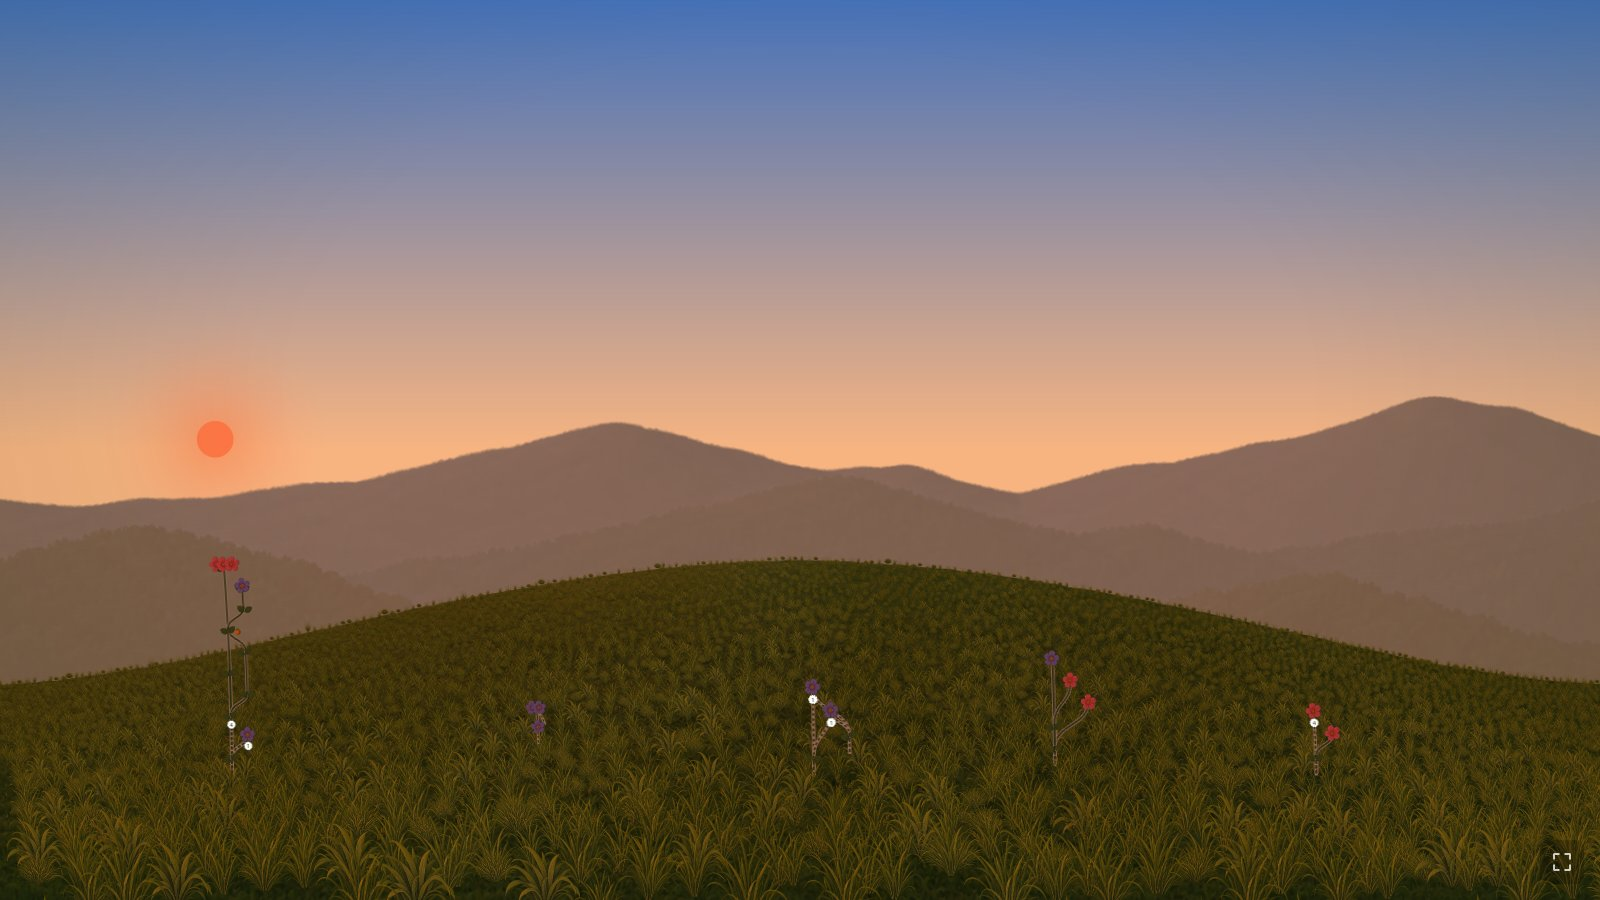
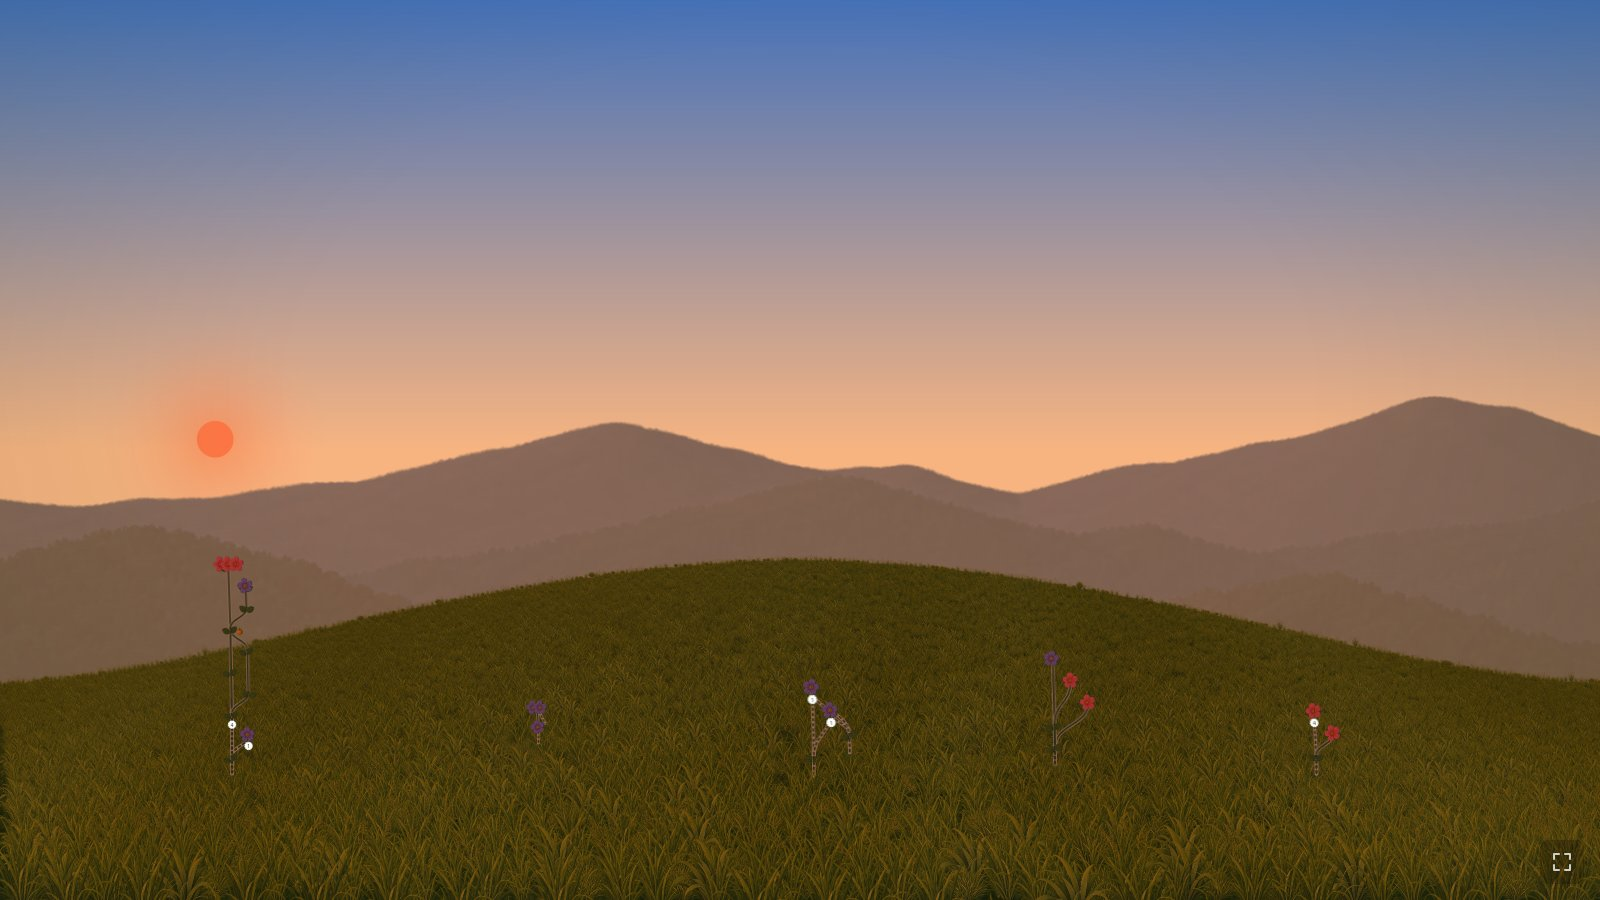
docs: recapture the README scenes on a hardware GPU; add a gusty gale
Headless Chromium has only SwiftShader, which the garden treats as
software WebGL and gives the Software tier's sparser grass. The screenshot
script now runs Chromium headed and refuses to capture without hardware
WebGL. A new scene shows a 50 mph west wind gusting to 110: the grass
leaning and swept by waves, the plants bent downwind.

Claude-Session: https://claude.ai/code/session_01Q86SXud7jWw66KW2qCgXUB

Changed region(s): [[0.0, 0.6222, 1.0, 1.0]]

diff --git a/scripts/readme-screenshots.ts b/scripts/readme-screenshots.ts
@@ -1,9 +1,10 @@
 /**
  * The README's garden screenshots: the hillside under each Sky and Weather
- * preview, drawn by the GPU tier (software WebGL headless), without the
- * top bar and notes.
+ * preview, drawn by the GPU tier on real graphics hardware, without the
+ * top bar and notes. Chromium runs headed: headless has only SwiftShader,
+ * which the garden treats as software and gives the Software tier's grass.
  *
- * Start the demo first (`node src/cli.ts demo`), then:
+ * Start the demo first (`node src/cli.ts demo`), then, with a display:
  *   npm run readme:screenshots [-- <name>]
  */
 import { chromium } from "@playwright/test";
@@ -11,31 +12,46 @@ import { chromium } from "@playwright/test";
 const URL = "http://127.0.0.1:4784/";
 const OUT = "docs/images";
 
-/** File (under docs/images), Sky preview, Weather preview, and local minutes. */
-const SHOTS: readonly [string, string, string, number?][] = [
-  ["garden-view", "noon", "partly-cloudy"],
-  ["scenes/sunrise", "sunrise", "clear"],
-  // Mid-afternoon on the Sunset preview's day: a high, colourful bow.
-  ["scenes/rainbow", "sunset", "showers", 18 * 60 + 30],
-  ["scenes/sunset", "sunset", "partly-cloudy"],
-  ["scenes/civil-dusk", "civil-dusk", "clear"],
-  ["scenes/full-moon", "full-moon", "clear"],
-  ["scenes/daytime-moon", "daytime-moon", "clear"],
-  ["scenes/thunderstorm", "noon", "thunderstorm"],
-  ["scenes/snow", "noon", "snow"],
-  ["scenes/fog", "sunrise", "fog"],
-  ["scenes/solar-eclipse-total", "solar-eclipse-total", "clear"],
-  ["scenes/lunar-eclipse-total", "lunar-eclipse-total", "clear"],
-  ["scenes/polar-day", "polar-day", "clear"],
-];
+interface Wind {
+  from: string;
+  speedMph: number;
+  gustMph: number;
+}
+
+/**
+ * File (under docs/images), Sky preview, Weather preview, local minutes,
+ * and a Wind preview (else the weather's own wind).
+ */
+const SHOTS: readonly [string, string, string, (number | undefined)?, Wind?][] =
+  [
+    ["garden-view", "noon", "partly-cloudy"],
+    ["scenes/sunrise", "sunrise", "clear"],
+    // Mid-afternoon on the Sunset preview's day: a high, colourful bow.
+    ["scenes/rainbow", "sunset", "showers", 18 * 60 + 30],
+    ["scenes/sunset", "sunset", "partly-cloudy"],
+    ["scenes/civil-dusk", "civil-dusk", "clear"],
+    ["scenes/full-moon", "full-moon", "clear"],
+    ["scenes/daytime-moon", "daytime-moon", "clear"],
+    ["scenes/thunderstorm", "noon", "thunderstorm"],
+    ["scenes/snow", "noon", "snow"],
+    ["scenes/fog", "sunrise", "fog"],
+    ["scenes/solar-eclipse-total", "solar-eclipse-total", "clear"],
+    ["scenes/lunar-eclipse-total", "lunar-eclipse-total", "clear"],
+    ["scenes/polar-day", "polar-day", "clear"],
+    // A gale from the west, gusting: the grass leans right, swept by waves.
+    [
+      "scenes/high-wind",
+      "noon",
+      "partly-cloudy",
+      undefined,
+      { from: "W", speedMph: 50, gustMph: 60 },
+    ],
+  ];
 
 const CHROME = ".topbar, [role=note], .art-notice";
 
 const only = process.argv[2];
-const browser = await chromium.launch({
-  // Headless has no GPU: the GPU tier runs on SwiftShader, chosen by hand.
-  args: ["--use-angle=swiftshader", "--enable-unsafe-swiftshader"],
-});
+const browser = await chromium.launch({ headless: false });
 try {
   const page = await browser.newPage({
     viewport: { width: 1600, height: 900 },
@@ -44,7 +60,11 @@ try {
   await page.getByLabel("Renderer", { exact: true }).selectOption("canvas");
   await page.getByLabel("Drawing", { exact: true }).selectOption("gpu");
   await page.getByLabel("Quality", { exact: true }).selectOption("high");
-  for (const [file, sky, weather, minutes] of SHOTS) {
+  const gpu = await page.locator("html").getAttribute("data-gpu");
+  if (!gpu?.startsWith("hardware"))
+    throw new Error(`No hardware WebGL (${String(gpu)}): run with a display`);
+  console.log(gpu);
+  for (const [file, sky, weather, minutes, wind] of SHOTS) {
     if (only !== undefined && !file.endsWith(only)) continue;
     await page.getByLabel("Sky", { exact: true }).selectOption(sky);
     await page.getByLabel("Weather", { exact: true }).selectOption(weather);
@@ -52,6 +72,16 @@ try {
       await page
         .getByLabel("Time of day", { exact: true })
         .fill(String(minutes));
+    const direction = page.getByLabel("Wind direction", { exact: true });
+    await direction.selectOption(wind?.from ?? "weather");
+    if (wind) {
+      await page
+        .getByLabel("Wind speed", { exact: true })
+        .fill(String(wind.speedMph));
+      await page
+        .getByLabel("Gust strength", { exact: true })
+        .fill(String(wind.gustMph));
+    }
     // Relit, and the clouds and particles under way.
     await page.waitForTimeout(6000);
     // The page's CSP refuses injected style sheets: hide them one by one.

diff --git a/README.md b/README.md
@@ -34,9 +34,14 @@ and wind to the hillside.
 | ![Fog: a pale Sun through mist that hides the far ridges](docs/images/scenes/fog.jpg) | ![The midnight Sun low over the ridges in Svalbard](docs/images/scenes/polar-day.jpg) |
 | **Fog** hides the far ridges first. | **Anywhere on Earth**, including the midnight Sun and polar night. |
 
-Grass and plants move with the wind, which sends waves rolling across the
-hill as gusts pass. The garden view's *Sky*, *Weather*, and *Wind* menus
-preview any of these, clearly labelled as previews.
+![A gale from the west: the grass leans right, with paler bands where gusts bend it, and the plants lean downwind](docs/images/scenes/high-wind.jpg)
+
+**Wind** bends every tuft of grass and every plant. Gusts send waves rolling
+across the hill, paler where they bend the grass and darker where it stands
+back up. Faster winds roll them more often and lean everything further.
+
+The garden view's *Sky*, *Weather*, and *Wind* menus preview any of these,
+clearly labelled as previews.
 
 The **technical view** shows the same graph without the artwork. It shows
 every branch head, the common ancestors that connect them, and recent work,
